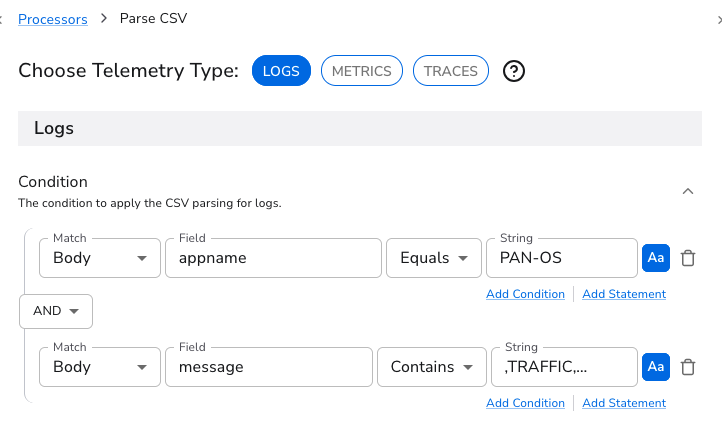
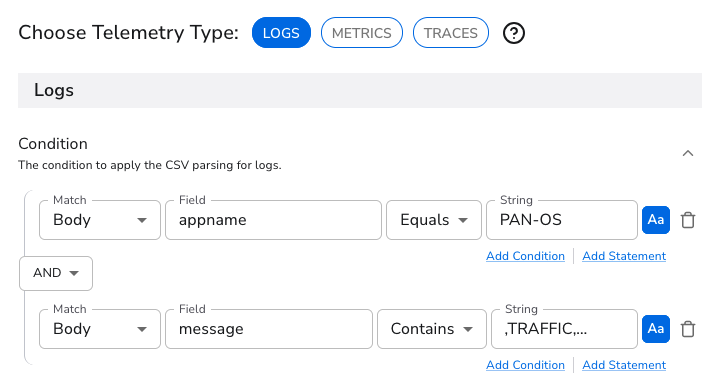
delete field amendments

diff --git a/docs/pipeline-volume-reduction.md b/docs/pipeline-volume-reduction.md
@@ -24,7 +24,7 @@ Reducing volume in the pipeline, before data reaches any destination, lowers cos
 - Click on `Edit processors` close to the `syslog` source (it should read as 1 to indicate it already has one processor)
 - Click on ` Add processor`
 - Search and click **Delete Fields**. Telemetry type is **LOGS**.
-- Enter a Short description `Parse CSV`
+- Enter a Short description `Delete body.message`
 - Add these two conditions (this is same as what we defined before)
 
 | Match | Field | Operator | String |
@@ -40,6 +40,11 @@ Screenshot of the conditions:
  ![PAN-OS CSV Condition](img/pipeline-field-extraction/parse-csv-condition.png)   
 
 - Click inside `Body Fields` and select `message` [This means if the above conditions are met, the `body` field `message` will be dropped]
+- Click inside `Attribute Fields` and select `log.record.original` [This means if the above conditions are met, the `attribute` field `log.record.original` will be dropped]
+
+Screenshot showing that the `message` and `log.record.original` are deleted:
+
+![Delete Fields](img/volume-reduction/delete-fields.png)
 
 
 This reads `pan.action`, so it goes **after** the Parse CSV processor from [Structured Field Extraction](pipeline-field-extraction.md).
